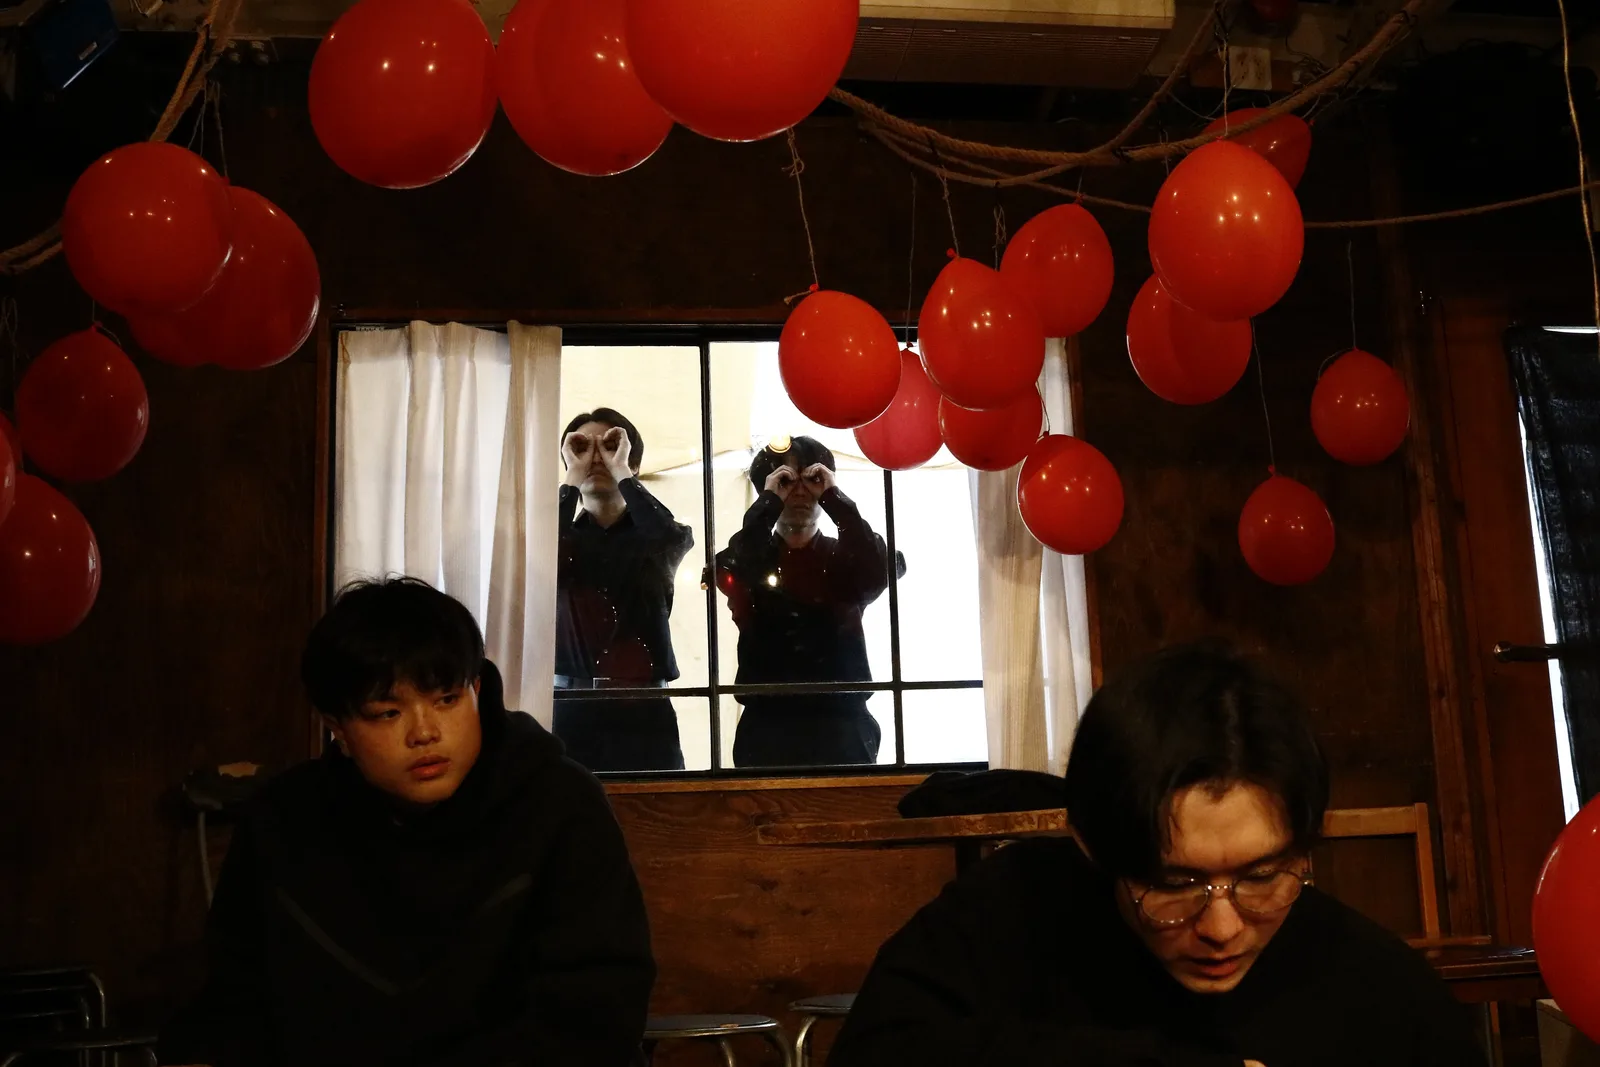
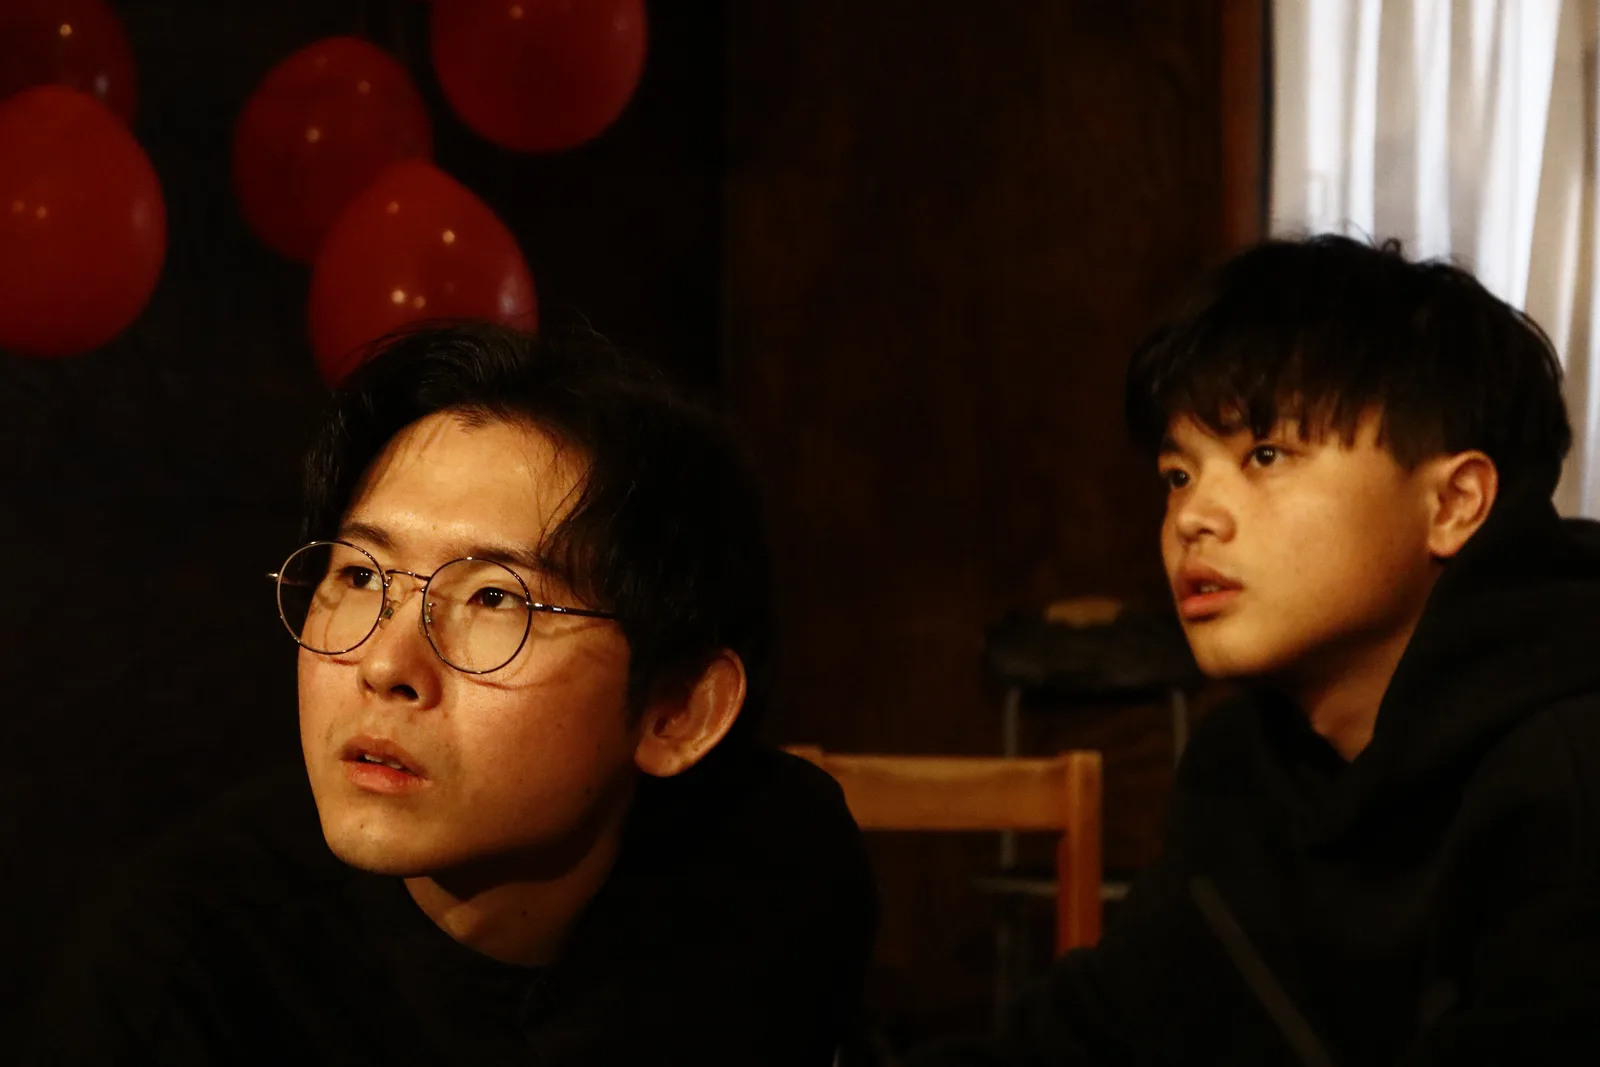
Add page eyebrow label, homepage photos, and hamburger glass fix
- Add a reusable frontmatter "eyebrow" field rendered as a small pill
  above the h1, and set it to "つぎ" on the きたれ！ page
- Change the homepage hero link to "▶つぎの舞台" and widen the gap
  from the hero down through アバウト/ニュース, inserting three curated
  production photos in between
- Revert the hamburger dropdown's frosted glass to the exact same
  background/blur as the header for a true smoked-glass match
- Fix a missing photo in the アドバルーン gallery (6 photos, not 5)

diff --git a/src/styles/main.sass b/src/styles/main.sass
@@ -130,9 +130,9 @@ body
     .navbar-inner
       min-height: 0
       overflow: hidden
-      background-color: rgba(255, 255, 255, 0.94)
-      -webkit-backdrop-filter: blur(28px) saturate(160%)
-      backdrop-filter: blur(28px) saturate(160%)
+      background-color: var(--glass-bg)
+      -webkit-backdrop-filter: blur(var(--glass-blur)) saturate(160%)
+      backdrop-filter: blur(var(--glass-blur)) saturate(160%)
 
     ul.menu
       flex-direction: column
@@ -157,6 +157,17 @@ main
 
   h1
     margin-bottom: 24px
+
+    .page-eyebrow
+      display: inline-block
+      font-weight: 700
+      font-size: 12px
+      letter-spacing: 0.16em
+      color: var(--ink-faint)
+      background-color: var(--surface)
+      padding: 4px 10px
+      border-radius: 999px
+      margin-bottom: 14px
 
     .title-prefix
       display: block
@@ -268,8 +279,22 @@ main
     flex-direction: column
     align-items: center
     gap: 16px
-    margin: 0 auto 48px
+    margin: 0 auto 72px
     text-align: center
+
+  .hero-photos
+    display: flex
+    flex-direction: column
+    align-items: center
+    gap: 32px
+    margin: 0 auto 80px
+
+    .hero-photo
+      width: 100%
+      max-width: 520px
+      height: auto
+      border-radius: 12px
+      display: block
 
     .hero-logotype-img
       width: min(420px, 80%)

diff --git a/src/pages/index.md b/src/pages/index.md
@@ -6,7 +6,13 @@ layout: ../layouts/Base.astro
 </div>
 <div class="hero-brand">
 <img src="/src/logotype.png" alt="内弁慶の立往生" class="hero-logotype-img">
-<a href="/notes/theatre-no5-kitare" class="hero-next-link">つぎの舞台</a>
+<a href="/notes/theatre-no5-kitare" class="hero-next-link">▶つぎの舞台</a>
+</div>
+
+<div class="hero-photos">
+<img src="/gallery/no3/8.webp" alt="" class="hero-photo">
+<img src="/gallery/nonameb/4.webp" alt="" class="hero-photo">
+<img src="/gallery/no4/3.webp" alt="" class="hero-photo">
 </div>
 
 ## アバウト

diff --git a/src/pages/notes/theatre-no4-adoballoon.md b/src/pages/notes/theatre-no4-adoballoon.md
@@ -42,4 +42,5 @@ title: "内弁慶の立往生のきっと４回めの本公演『アドバルー
 <div class="flyer-slide"><img src="/gallery/no4/3.webp" alt=""></div>
 <div class="flyer-slide"><img src="/gallery/no4/4.webp" alt=""></div>
 <div class="flyer-slide"><img src="/gallery/no4/5.webp" alt=""></div>
+<div class="flyer-slide"><img src="/gallery/no4/6.webp" alt=""></div>
 </div>

diff --git a/src/pages/notes/theatre-no5-kitare.md b/src/pages/notes/theatre-no5-kitare.md
@@ -1,6 +1,7 @@
 ---
 layout: ../../layouts/Base.astro
 title: "東京舞台芸術祭2026 Open Call Programs参加作品　内弁慶の立往生の確かに５回めの本公演『きたれ！』"
+eyebrow: "つぎ"
 ---
 <div class="flyer-slider">
 <div class="flyer-slide"><img src="/flyer/benkei-no5-omote.webp" alt="表"></div>
